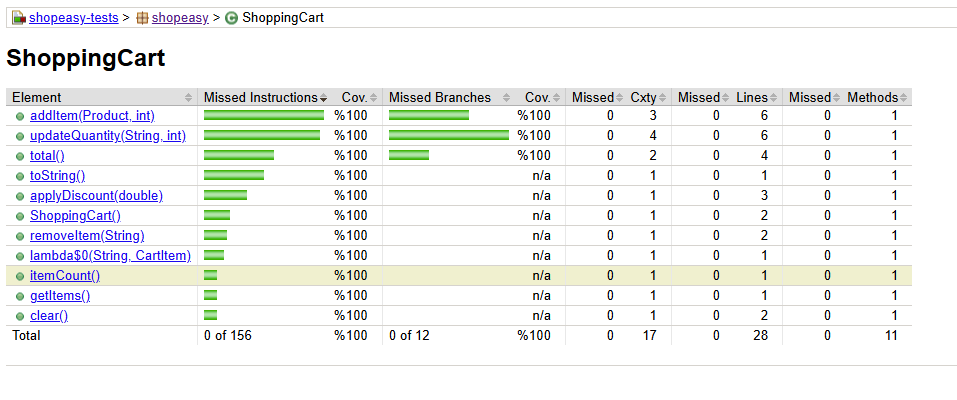
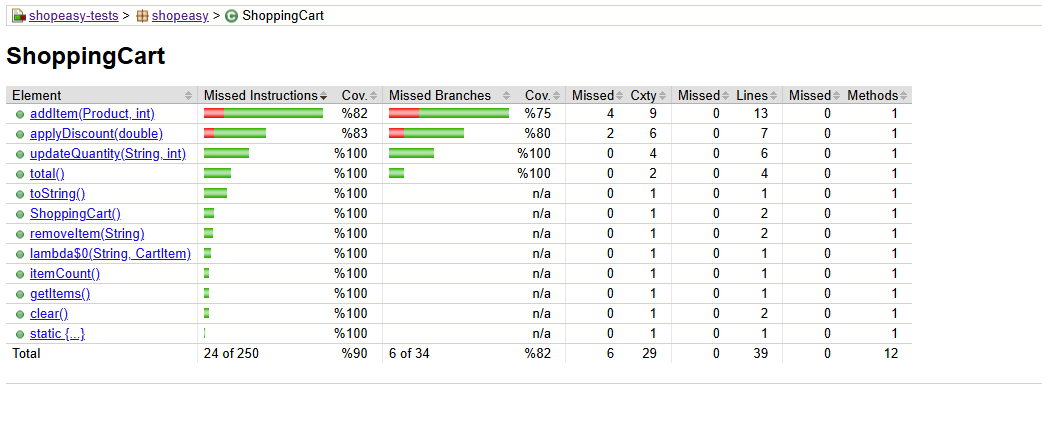
task2 bonus: PIT mutant tests and updated jacoco report assets

diff --git a/src/test/java/shopeasy/ShoppingCartStructuralTest.java b/src/test/java/shopeasy/ShoppingCartStructuralTest.java
@@ -127,6 +127,23 @@ class ShoppingCartStructuralTest {
                 .isInstanceOf(IllegalArgumentException.class);
     }
 
+    // PIT bonus: qty 0 + wrong id — mutant (< 0) skips cart check, throws "not found" instead
+    @Test
+    void updateQtyZeroWrongProduct() {
+        cart.addItem(apple, 1);
+        assertThatThrownBy(() -> cart.updateQuantity("P999", 0))
+                .hasMessageContaining("Quantity must be > 0");
+    }
+
+    // PIT bonus: CartItem.setQuantity boundary — direct call with qty 0
+    @Test
+    void cartItemRejectsZeroQuantity() {
+        CartItem item = new CartItem(apple, 1);
+        assertThatThrownBy(() -> item.setQuantity(0))
+                .isInstanceOf(IllegalArgumentException.class)
+                .hasMessageContaining("Quantity must be > 0");
+    }
+
     // applyDiscount 0
     @Test
     void discountZero() {